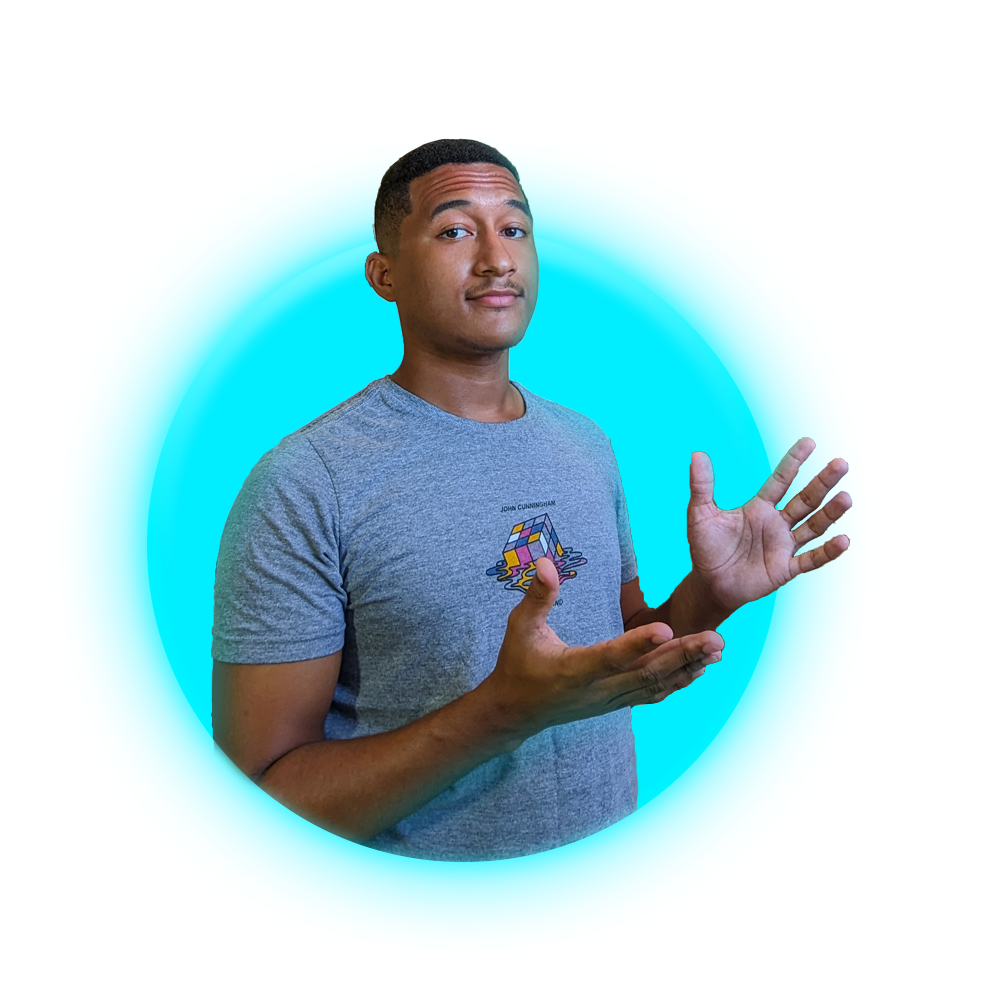
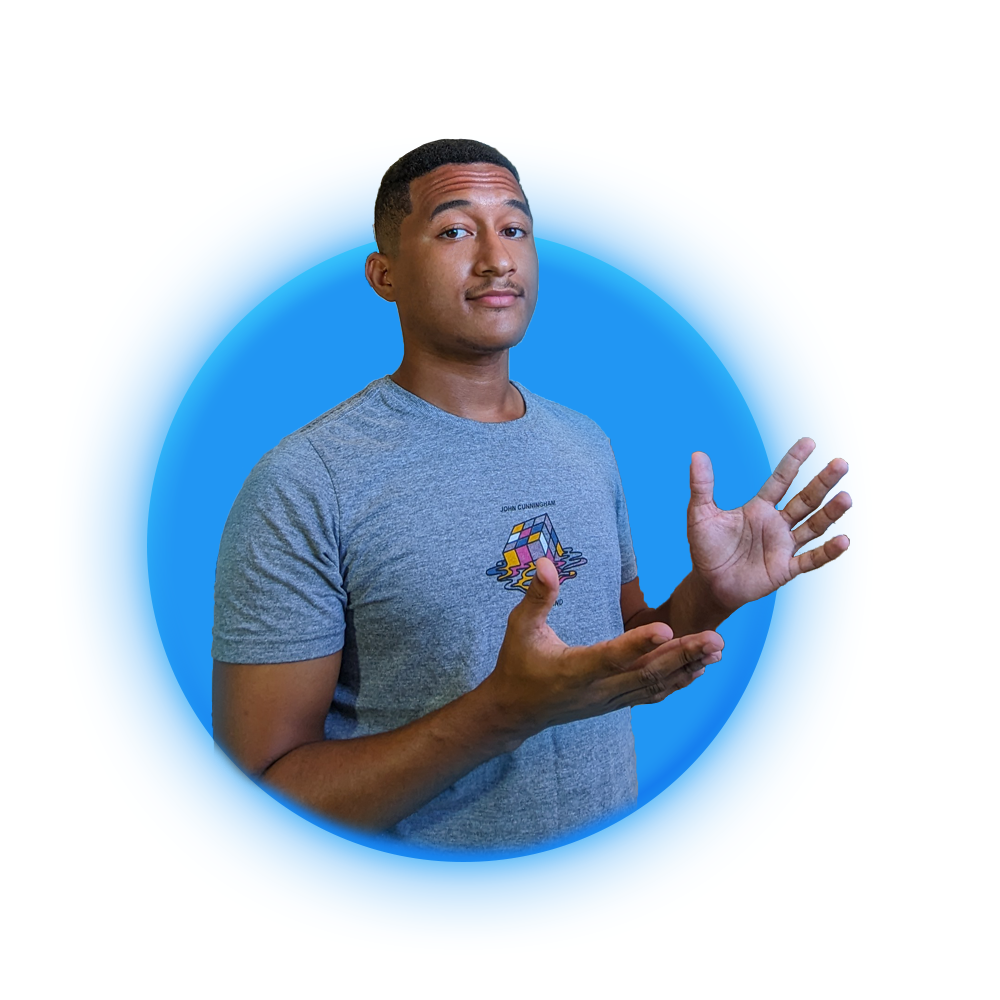
Mudando área de contato
Mudança na área de contato e cor dos textos, caixas e imagens

Changed region(s): [[0.124, 0.217, 0.806, 0.899], [0.496, 0.217, 0.806, 0.62]]

diff --git a/CSS/style.css b/CSS/style.css
@@ -41,7 +41,7 @@ nav a {
 
 nav a:hover,
 nav a.active {
-    color: #0ef;
+    color: #2196f3;
 }
 
 nav a:hover {
@@ -79,13 +79,13 @@ h1 {
 }
 
 section#home .home-content .info h1 span {
-    color: #0ef;
-    text-shadow: #0ef;
+    color: #2196f3;
+    text-shadow: #2196f3;
     text-transform: uppercase;
 }
 
 section#home .home-content .info .download-btn {
-    background: #0ef;
+    background: #2196f3;
     color: #fff; 
     display: inline-block; 
     margin-top: 35px;
@@ -97,8 +97,8 @@ section#home .home-content .info .download-btn {
   }
   
 section#home .home-content .info .download-btn:hover {
-    background-color: rgb(0, 181, 194); 
-    box-shadow: 0 3.75px 15px rgba(0, 238, 255, 0.15);
+    background-color: #1486e4; 
+    box-shadow: 0 3.75px 15px #1486e4;
     transition: 0.5s;
   }
   
@@ -121,7 +121,7 @@ section#about .container .content {
 
 section#about .container .content h1 {
     font-size: 2em;
-    color: #0ef;
+    color: #2196f3;
 }
 
 section#about .container .content p {
@@ -144,7 +144,7 @@ section#projects {
 }
 
 section#projects h1 {
-    color: #0ef;
+    color: #2196f3;
     margin-top: 90px;
     margin-bottom: 40px;
     font-size: 2em;
@@ -240,7 +240,6 @@ section#projects .container .card .content h2 {
     font-size: 1.5em;
     font-weight: 700;
     color: gray;
-    /* var(--clr) */
     transition: 0.5s;
 }
 
@@ -272,7 +271,7 @@ section#projects .container .card .content a {
 }
 
 section#projects .container .card .content a:hover {
-    background-color:rgb(0, 181, 194);
+    background-color:#2196f3;
     transition: 0.5s;
 }
 
@@ -286,57 +285,180 @@ section#contact {
     flex-direction: column;
 }
 
-section#contact .container-contact {
-    display: flex;
-    justify-content: center;
-    align-items: center;
-    text-align: center;
-    flex-direction: column;
-    color: #fff;
+:root {
+    --bg: #111;
 }
 
-section#contact .container-contact h1 span {
-    color: #0ef;
-}
-
-section#contact .container-contact .box {
-    display: flex;
-    align-items: center;
-    flex-direction: column;
-    margin-top: 25px;
-    width: 100%;
-}
-
-section#contact .container-contact .box p {
+section#contact .card-user {
     position: relative;
+    transition: 0.5s;
+    height: 100px;
+    transition-delay: 0.5s;
+}
+
+section#contact .card-user.active {
+    height: 450px;
+    margin-top: 65px;
+}
+
+section#contact .card-user .user {
+    position: relative;
+    width: 100%;
+    min-height: 150px;
+    background: #2196f3;
     display: flex;
     justify-content: center;
     align-items: center;
-    width: 400px;
-    margin-bottom: 25px;
-    text-decoration: none;
+    flex-direction: column;
+    gap: 10px;
+    border-radius: 10px;
+    padding: 60px 40px 30px;
+}
+
+section#contact .card-user .user .imgBx {
+    position: absolute;
+    top: 0;
+    transform: translateY(-50%);
+    width: 100px;
+    height: 100px;
+    border-radius: 50%;
+    border: 6px solid #fff;
+    overflow: hidden;
+    transition: 0.5s;
+    z-index: 10;
+}
+
+section#contact .card-user .user .imgBx img {
+    position: absolute;
+    width: 100%;
+    height: 100%;
+    object-fit: cover;
+}
+
+section#contact .card-user .user .content {
+    position: relative;
+    text-align: center;
+}
+
+section#contact .card-user .user .content h2 {
+    font-size: 1.2em;
+    line-height: 1.05em;
+    font-weight: 600;
     color: #fff;
 }
 
-section#contact .container-contact .box p a {
+section#contact .card-user .user .content h2 span {
+    font-size: 0.75em;
+    font-weight: 400;
+}
+
+section#contact .card-user .user .toggle {
+    position: absolute;
+    bottom: 0;
+    width: 150px;
+    padding: 5px 15px;
+    background: #fff;
+    border-radius: 30px;
+    transform: translateY(50%);
+    border: 6px solid var(--bg);
+    text-align: center;
+    cursor: pointer;
+    font-weight: 500;
+    transition: 0.55s;
+}
+
+section#contact .card-user.active .user .toggle {
+    background: #ff4383;
+    color: #fff;
+}
+
+section#contact .card-user .user .toggle::before {
+    content: 'Contrate-me';
+}
+
+section#contact .card-user.active .user .toggle::before {
+    content: 'Fechar';
+}
+
+section#contact .card-user .contact {
+    position: relative;
+    top: 30px;
+    width: 100%;
+    height: 0;
+    overflow: hidden;
     display: flex;
-    color: #fff;
-    text-decoration: none;
+    flex-direction: column;
+    gap: 10px;
+    transition: 0.5s;
+}
+
+section#contact .card-user.active .contact {
+    height: 325px;
+}
+
+section#contact .card-user .contact li {
+    list-style: none;
+    width: 100%;
+    min-height: 100px;
+    background: #fff;
+    border-radius: 10px;
+    display: flex;
+    transition: 0.5s;
+    opacity: 0;
+    transform: scale(0);
+    padding: 10px 30px;
+}
+
+section#contact .card-user.active .contact li {
+    opacity: 1;
+    transform: scale(1);
+    transition-delay: calc(0.25s * var(--i));
+}
+
+section#contact .card-user.active .contact:hover li {
+    opacity: 0.15;
+    filter: blur(2px);
+    transition-delay: 0s;
+}
+
+section#contact .card-user.active .contact li:hover {
+    opacity: 1;
+    filter: blur(0);
+}
+
+section#contact .card-user .contact li a,
+section#contact .card-user .contact li span {
+    display: flex;
     align-items: center;
-    transition: 0.3s;
+    text-decoration: none;
+    gap: 10px;
 }
 
-section#contact .container-contact .box p a span {
-    margin-left: 5px;
+section#contact .card-user .contact li a .iconBx,
+section#contact .card-user .contact li span .iconBx {
+    position: relative;
+    width: 60px;
+    height: 60px;
+    background: var(--clr);
+    border-radius: 50%;
+    display: flex;
+    justify-content: center;
+    align-items: center;
 }
 
-section#contact .container-contact .box a:hover {
-    color: #0ef;
-    transition: 0.3s;
+section#contact .card-user .contact li a .iconBx i,
+section#contact .card-user .contact li span .iconBx i {
+    color: #fff;
+    font-size: 1.5em;
 }
 
-section#contact .container-contact .box img {
-    margin-right: 10px;
-    width: 30px;
+section#contact .card-user .contact li a p,
+section#contact .card-user .contact li span p {
+    color: #666;
+    font-size: 1.1em;
 }
 
+section#contact .card-user .contact li a:hover p,
+section#contact .card-user .contact li span:hover p {
+    color: #111;
+}

diff --git a/index.html b/index.html
@@ -7,6 +7,8 @@
     <title>Leonardo Brahim - Portfólio</title>
     <link rel="stylesheet" href="CSS/style.css">
     <link rel="stylesheet" href="https://fonts.googleapis.com/css2?family=Material+Symbols+Outlined:opsz,wght,FILL,GRAD@48,400,0,0" />
+    <link rel="stylesheet" href="https://cdnjs.cloudflare.com/ajax/libs/font-awesome/6.4.0/css/all.min.css" integrity="sha512-iecdLmaskl7CVkqkXNQ/ZH/XLlvWZOJyj7Yy7tcenmpD1ypASozpmT/E0iPtmFIB46ZmdtAc9eNBvH0H/ZpiBw==" crossorigin="anonymous" referrerpolicy="no-referrer" />
+    <link rel="stylesheet" href="style.css">
 </head>
 <body>
    
@@ -52,7 +54,7 @@
                     <h1>Projetos</h1>
                 </div>
                 <div class="container">
-                    <div class="card" style="--clr:#0ef">
+                    <div class="card" style="--clr:#2196f3">
                         <div class="imgBx"><img src="img/login-registro.jpg" alt="site login e registro"></div>
                         <div class="content">
                             <h2>Login e Registro</h2>
@@ -62,7 +64,7 @@
                             <a href="01.login e registro/login-registro.html" target="_blank">Ver Projeto</a>
                         </div>
                     </div>
-                    <div class="card" style="--clr:#0ef">
+                    <div class="card" style="--clr:#2196f3">
                         <div class="imgBx"><img src="img/site-museu.jpg" alt="site museu nacional"></div>
                         <div class="content">
                             <h2>Site Museu Nacional</h2>
@@ -72,7 +74,7 @@
                             <a href="02.museu nacional/museu-nacional.html.html" target="_blank">Ver Projeto</a>
                         </div>
                     </div>
-                    <div class="card" style="--clr:#0ef">
+                    <div class="card" style="--clr:#2196f3">
                         <div class="imgBx"><img src="img/noticias-cidade.jpg" alt="site noticias cidade"></div>
                         <div class="content">
                             <h2>Site Notícias Cidade</h2>
@@ -82,7 +84,7 @@
                             <a href="03.noticias cidade/index.html" target="_blank">Ver Projeto</a>
                         </div>
                     </div>                    
-                    <div class="card" style="--clr:#0ef">
+                    <div class="card" style="--clr:#2196f3">
                         <div class="imgBx"><img src="img/chale-hotel.jpg" alt="site chalé hotel"></div>
                         <div class="content">
                             <h2>Site Chalé Hotel</h2>
@@ -106,24 +108,36 @@
             </section>
 
             <section id="contact">
-                <div class="container-contact">
-                    <h1>Gostou do que viu? <span>Entre em contato!</span></h1>
-                    <div class="box">
-                        <div class="email">
-                            <p>
-                                <img src="img/email.png" alt="logo do email">
-                                <span>contato.leonardobrahim@gmail.com</span>
-                            </p>   
+                <div class="card-user">
+                    <div class="user">
+                        <div class="imgBx">
+                            <img src="img/user.jpg" alt="imagem de perfil">
                         </div>
-                        <div class="linkedin">
-                            <p>
-                                <img src="img/linkedin.png" alt="logo do linkedin">
-                                <a href="https://www.linkedin.com/in/leonardo-brahim-tavares-837848208/">Leonardo Brahim Tavares <span class="material-symbols-outlined">
-                                link
-                                </span></a>
-                            </p>         
+                        <div class="content">
+                            <h2>Leonardo Brahim<br><span>Web Developer</span></h2>
                         </div>
-                    </div>          
+                        <span class="toggle"></span>
+                    </div>
+                    <ul class="contact">
+                        <li style="--clr:#c71610;--i:0;">
+                            <span>
+                                <div class="iconBx"><i class="fa-solid fa-envelope"></i></div>
+                                <p>contato.leonardobrahim@gmail.com</p>
+                            </span>
+                        </li>
+                        <li style="--clr:#0a66c2;--i:1;">
+                            <a href="https://www.linkedin.com/in/leonardo-brahim-tavares-837848208/" target="_blank">
+                                <div class="iconBx"><i class="fa-brands fa-linkedin"></i></div>
+                                <p>linkedin/leonardo-brahim-tavares</p>
+                            </a>
+                        </li>
+                        <li style="--clr:#171515;--i:2;">
+                            <a href="https://github.com/leonardobrahim" target="_blank">
+                                <div class="iconBx"><i class="fa-brands fa-github"></i></div>
+                                <p>github/leonardobrahim</p>
+                            </a>
+                        </li>
+                    </ul>
                 </div>
             </section> 
         </div>

diff --git a/JS/script.js b/JS/script.js
@@ -16,3 +16,10 @@ window.onscroll = () => {
         };
     });
 };
+
+let toggle = document.querySelector('.toggle');
+let card = document.querySelector('.card-user');
+        
+toggle.onclick = function(){
+    card.classList.toggle('active');
+}
